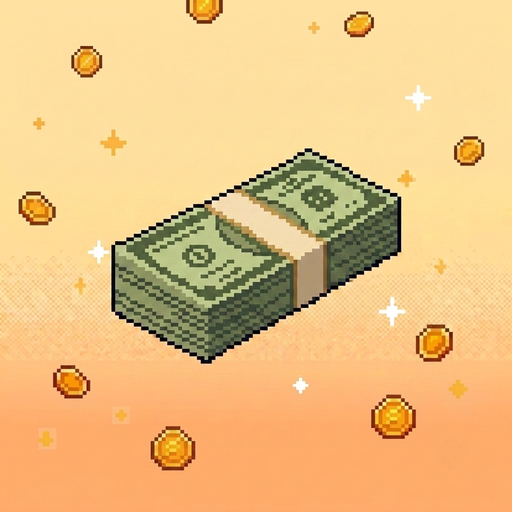
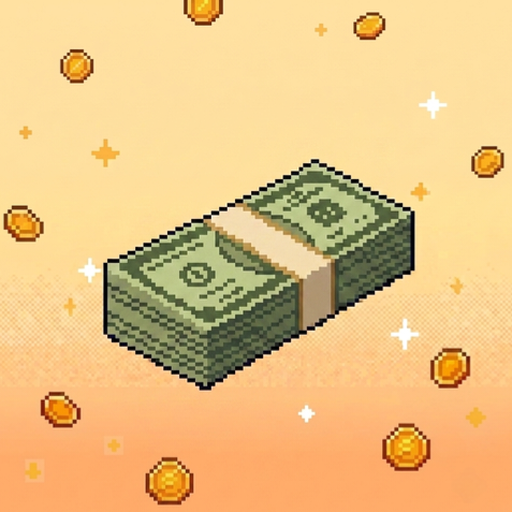
Add files via upload

diff --git a/index.html b/index.html
@@ -163,6 +163,11 @@
   .lg-ratio-legend-row { display: flex; align-items: center; gap: 4px; white-space: nowrap; }
   .lg-ratio-dot { width: 8px; height: 8px; border-radius: 50%; flex-shrink: 0; }
   .lg-ratio-pct { font-weight: 700; }
+  .lg-donut-label {
+    position: absolute; transform: translate(-50%, -50%);
+    font-size: 9px; font-weight: 700; color: #fff;
+    text-shadow: 0 1px 1px rgba(0,0,0,0.35); pointer-events: none;
+  }
   .lg-sub-title { margin-top: 8px; font-size: 13px; }
 
   .lg-table { width: 100%; border-collapse: collapse; font-size: 12px; table-layout: fixed; }
@@ -376,18 +381,30 @@
         currentUser = user;
         if (user) {
           guestMode = false;
+          const localCached = loadFromKey(cloudCacheKey(user.uid));
           try {
             const snap = await getDoc(doc(db, "ledgers", user.uid));
             if (snap.exists()) {
-              state = snap.data();
-              saveLocal();
-              setSyncNote("클라우드 데이터 불러옴");
+              const cloudData = snap.data();
+              const cloudTime = cloudData.updatedAt || 0;
+              const localTime = localCached.updatedAt || 0;
+              if (localTime > cloudTime) {
+                // 오프라인일 때 이 기기에 저장된 내용이 클라우드보다 최신 - 클라우드에 반영
+                state = localCached;
+                saveLocal();
+                await window.__lgSaveCloud(state);
+                setSyncNote("오프라인 중 저장한 내용을 클라우드에 반영함");
+              } else {
+                state = cloudData;
+                saveLocal();
+                setSyncNote("클라우드 데이터 불러옴");
+              }
             } else {
-              state = loadFromKey(cloudCacheKey(user.uid));
+              state = localCached;
               await window.__lgSaveCloud(state);
             }
           } catch (e) {
-            state = loadFromKey(cloudCacheKey(user.uid));
+            state = localCached;
             setSyncNote("클라우드 연결 실패 (이 계정의 이 기기 저장분으로 계속 사용)");
           }
           revealAppScreen();
@@ -504,11 +521,16 @@
     catch (e) { console.error("로컬 저장 실패", e); }
   }
   async function saveState() {
+    state.updatedAt = Date.now();
     saveLocal();
     if (firebaseReady && currentUser && window.__lgSaveCloud) {
+      if (typeof navigator !== "undefined" && navigator.onLine === false) {
+        setSyncNote("오프라인 - 이 기기에 저장 완료 (온라인 시 자동 반영)");
+        return;
+      }
       await window.__lgSaveCloud(state);
     } else {
-      setSyncNote("자동 저장됨 · " + new Date().toLocaleTimeString("ko-KR"));
+      setSyncNote("저장 완료 · " + new Date().toLocaleTimeString("ko-KR"));
     }
   }
 
@@ -661,20 +683,29 @@
     let cursor = 0;
     const gradientParts = [];
     const legendParts = [];
+    const labelParts = [];
+    const cx = 30, cy = 30, r = 25;
     entries.forEach(([name, amt]) => {
       const pctNum = (amt / total) * 100;
       const deg = (amt / total) * 360;
       const it = getItem(name);
       const color = it ? it.color : "#8A7C52";
       gradientParts.push(color + " " + cursor + "deg " + (cursor + deg) + "deg");
+      const midDeg = cursor + deg / 2;
       cursor += deg;
+      const rad = (midDeg * Math.PI) / 180;
+      const x = cx + r * Math.sin(rad);
+      const y = cy - r * Math.cos(rad);
+      labelParts.push(
+        '<span class="lg-donut-label" style="left:' + x + 'px; top:' + y + 'px;">' + esc(name.charAt(0)) + '</span>'
+      );
       legendParts.push(
         '<div class="lg-ratio-legend-row"><span class="lg-ratio-dot" style="background:' + color + ';"></span>' +
-        '<span>' + esc(name.charAt(0)) + '</span><span class="lg-ratio-pct">' + formatPct(pctNum) + '</span></div>'
+        '<span class="lg-ratio-pct">' + formatPct(pctNum) + '</span></div>'
       );
     });
     el.innerHTML =
-      '<div class="lg-ratio-donut" style="background: conic-gradient(' + gradientParts.join(", ") + ');"></div>' +
+      '<div class="lg-ratio-donut" style="background: conic-gradient(' + gradientParts.join(", ") + ');">' + labelParts.join("") + '</div>' +
       '<div class="lg-ratio-legend">' + legendParts.join("") + '</div>';
   }
 

diff --git a/sw.js b/sw.js
@@ -1,4 +1,4 @@
-const CACHE_NAME = "ledger-cache-v28";
+const CACHE_NAME = "ledger-cache-v29";
 const ASSETS = [
   "./",
   "./index.html",
